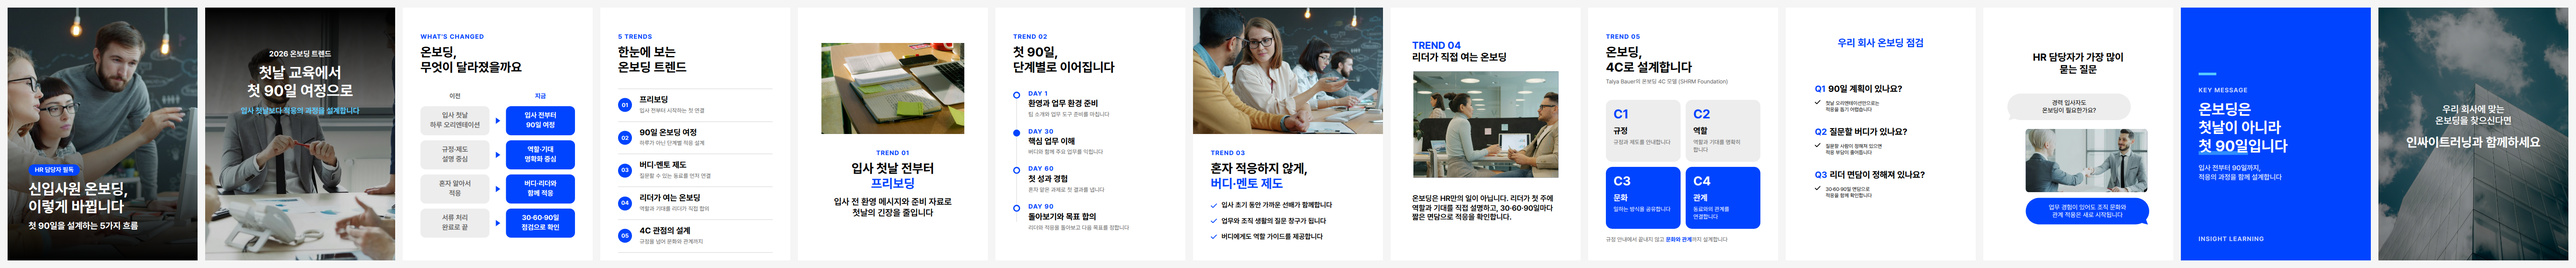
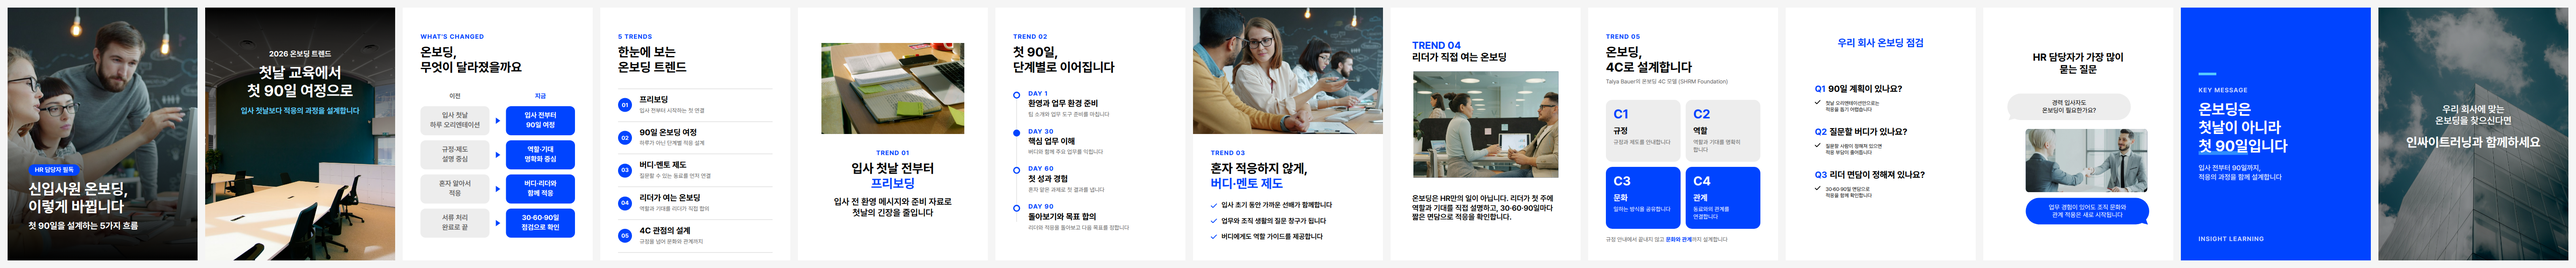
cardnews: render PNG [skip ci]

Changed region(s): [[0.0623, 0.2091, 0.1557, 0.9858]]

diff --git a/cardnews/decks/2026-11-onboarding-trends/CREDITS.md b/cardnews/decks/2026-11-onboarding-trends/CREDITS.md
@@ -5,7 +5,7 @@
 | 카드 | 파일 | 사진가 | 원본 |
 |---|---|---|---|
 | 01-cover | `cover.jpg` | [Vitaly Gariev](https://unsplash.com/@silverkblack) | [Unsplash](https://unsplash.com/photos/team-collaborating-around-a-computer-in-an-office-UikYLDQj9_I) |
-| 02-intro | `intro.jpg` | [Vitaly Gariev](https://unsplash.com/@silverkblack) | [Unsplash](https://unsplash.com/photos/business-professionals-collaborating-around-a-conference-table-y7xUr3aDLXc) |
+| 02-intro | `intro.jpg` | [Craig Lovelidge](https://unsplash.com/@craigology) | [Unsplash](https://unsplash.com/photos/an-empty-conference-room-with-desks-and-chairs-bV5dFLEYecM) |
 | 05-trend1-preboarding | `trend1-preboarding.jpg` | [Yen Vu](https://unsplash.com/@yenvu2410) | [Unsplash](https://unsplash.com/photos/notebook-and-laptop-sit-on-a-work-desk-TdgfSyDoWBE) |
 | 07-trend3-buddy | `trend3-buddy.jpg` | [Vitaly Gariev](https://unsplash.com/@silverkblack) | [Unsplash](https://unsplash.com/photos/colleagues-collaborating-at-a-modern-office-desk-0iTp1WNlMGc) |
 | 08-trend4-leader | `trend4-leader.jpg` | [Vitaly Gariev](https://unsplash.com/@silverkblack) | [Unsplash](https://unsplash.com/photos/two-colleagues-discussing-work-at-their-desks-so2ol7Wv0D0) |
